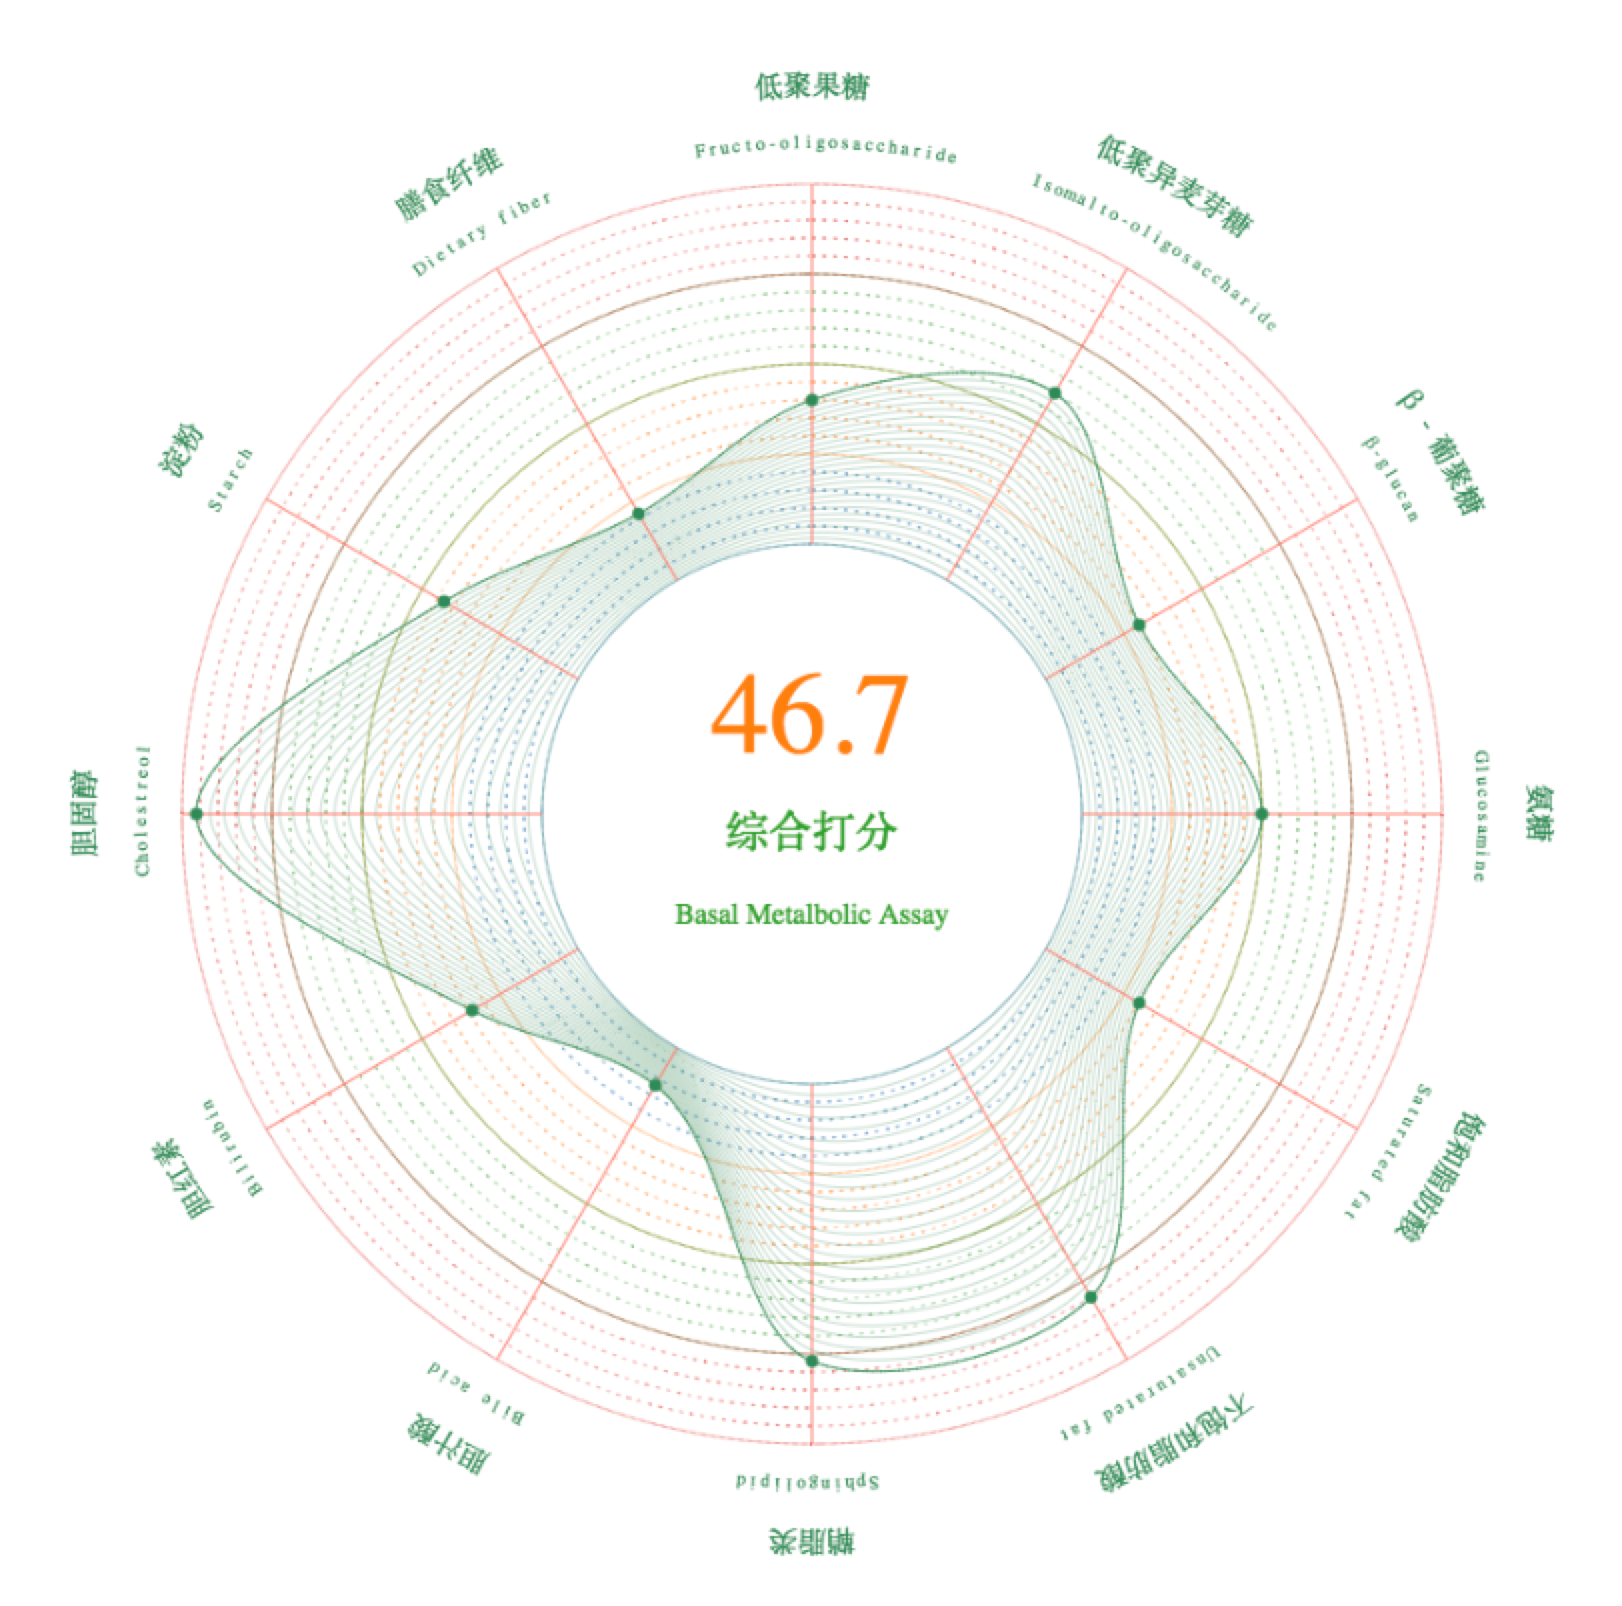
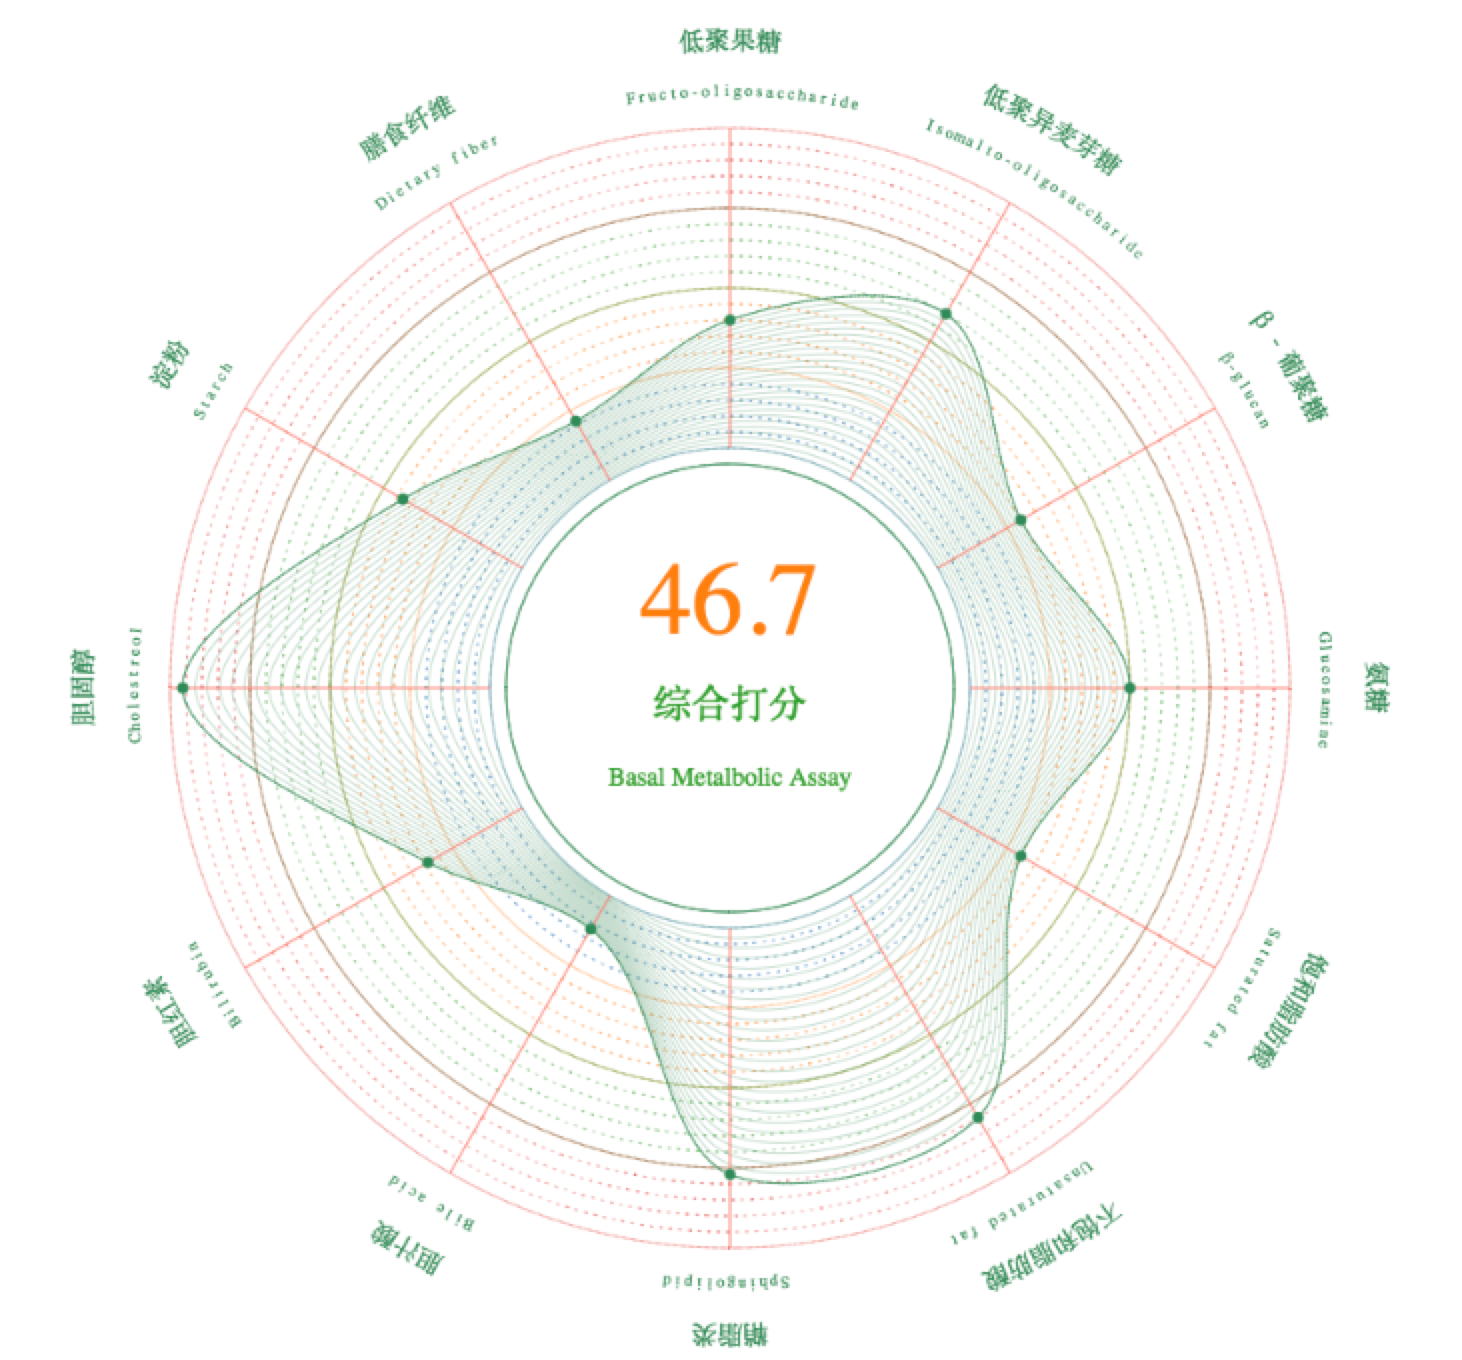
color maps and transfer

Changed region(s): [[0.0308, 0.0, 0.9542, 1.0], [0.4309, 0.4015, 0.554, 0.525], [0.4001, 0.5559, 0.5848, 0.5868]]

diff --git a/lib/utils/color.js b/lib/utils/color.js
@@ -1,4 +1,4 @@
-export function hexToRgbA(hex) {
+export function hex2rgba(hex) {
     var c;
     if (/^#([A-Fa-f0-9]{3}){1,2}$/.test(hex)) {
         c = hex.substring(1).split('');
@@ -165,10 +165,10 @@ export function colorNameToHex(color) {
 
 export function name2rgba(colorName) {
     let hex=colorNameToHex(colorName);
-    return hexToRgbA(hex);
+    return hex2rgba(hex);
 }
 
 // to be optimized 2017.4.20 fanyer
-export addOpacity(){
-    'rgba(1,1,1,0.3)'.replace(/[^,]+(?=\))/, '0.5')
+export function addOpacity(str='rgba(250,128,114,1)',alpha=0.5){
+    return str.replace(/[^,]+(?=\))/, alpha.toString())
 }
